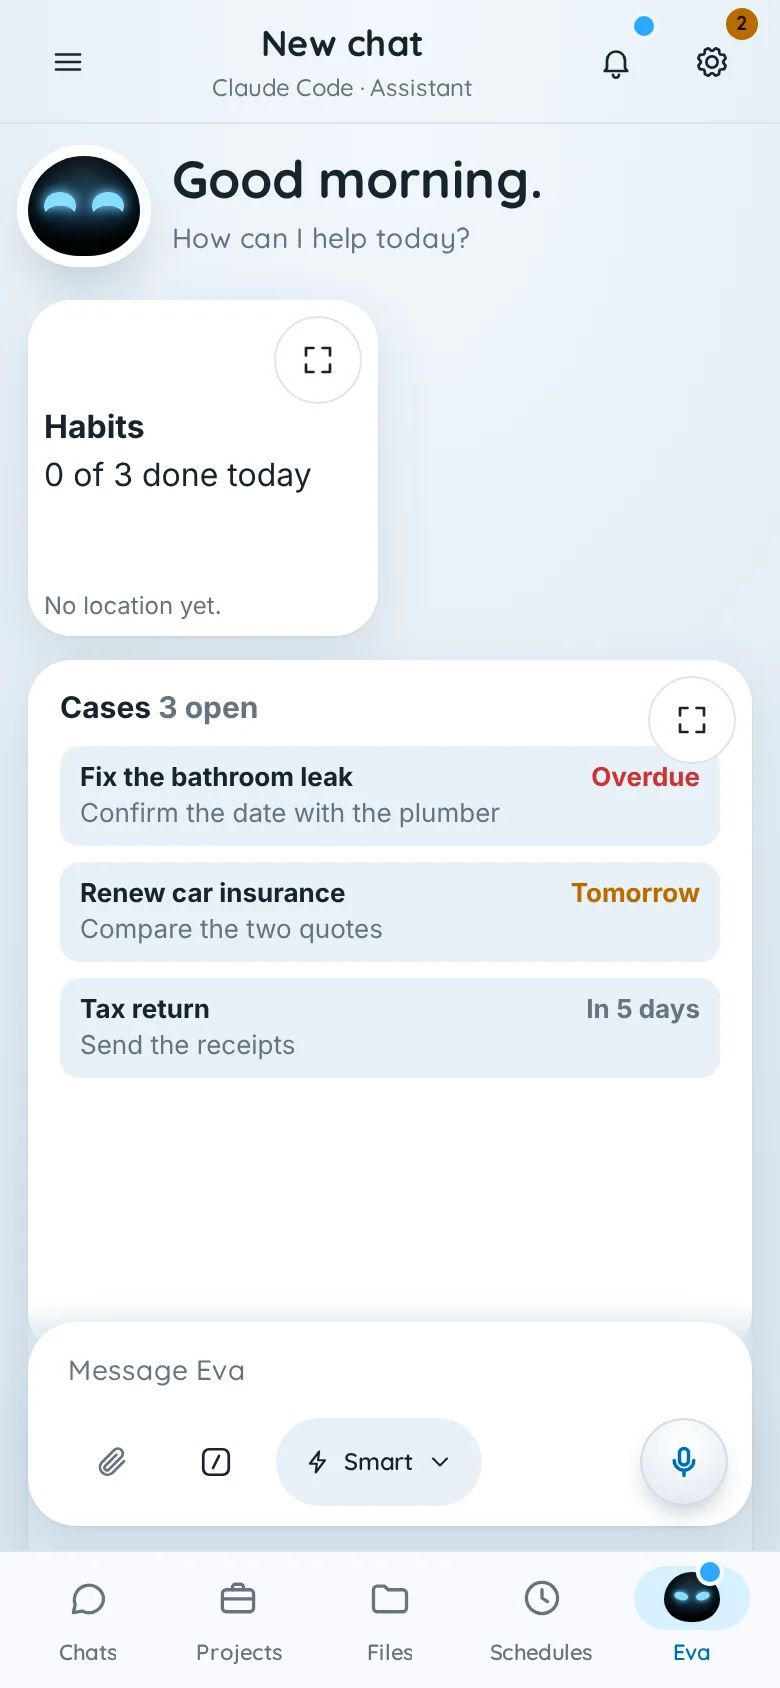
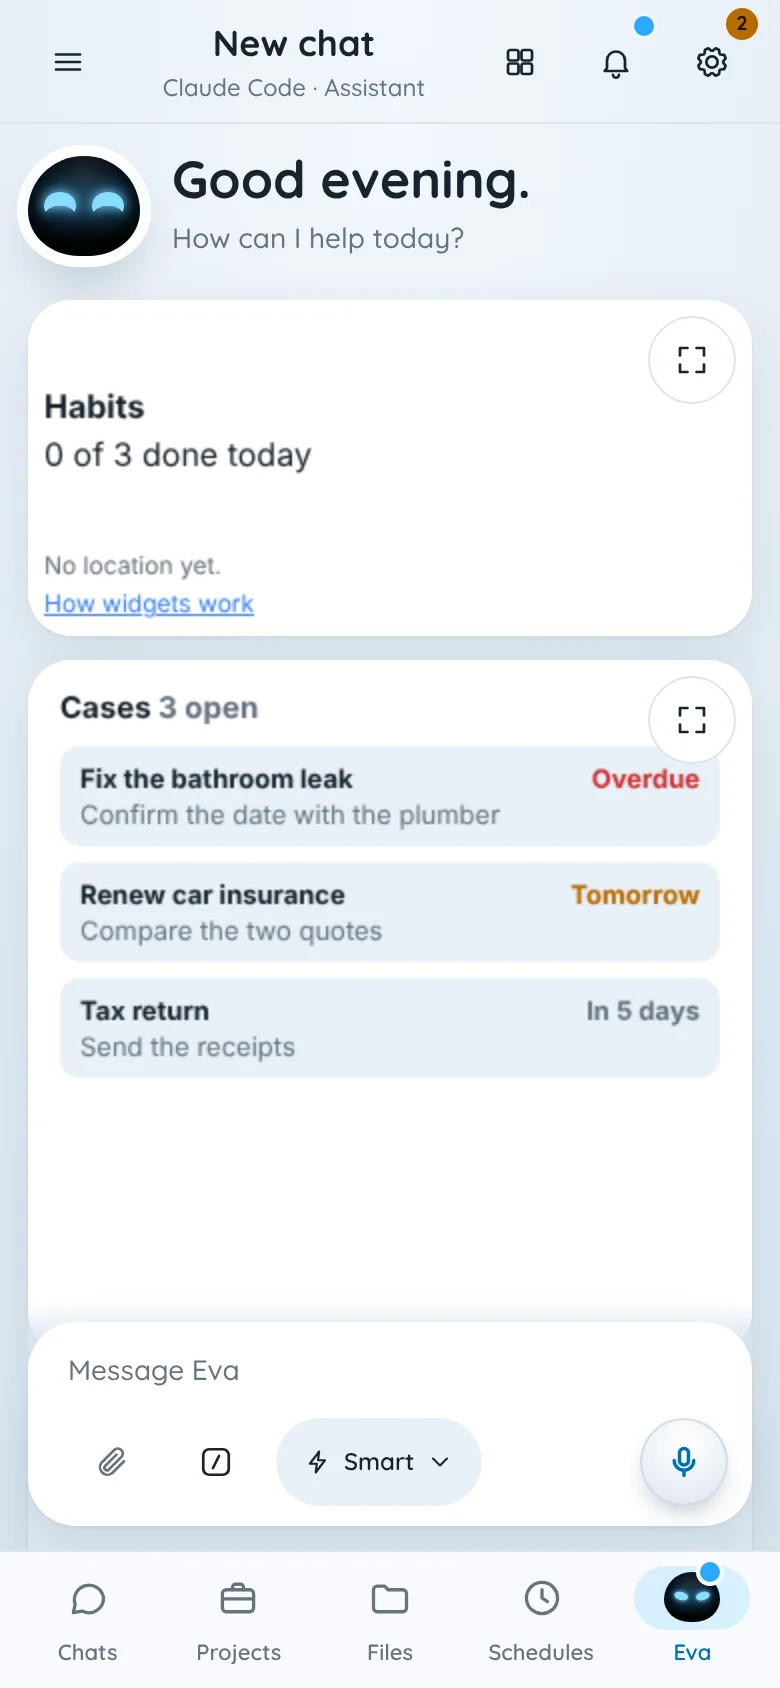
docs: describe the widget layout editor, and capture it
The contract, the guide and the design guide name the layout key, the
editor, the tiles button of the home page and the default placement.
The design guide gets a page with captures of the editor, and new
captures of the home page with its tiles button.

Refs #985

diff --git a/scripts/capture-design.ts b/scripts/capture-design.ts
@@ -298,6 +298,18 @@ const scenes: readonly Scene[] = [
   { name: "pets", show: (page) => openAddress(page, "#/pets", "Pets") },
   { name: "periods", show: (page) => openAddress(page, "#/periods", "Periods") },
   { name: "settings", show: (page) => openAddress(page, "#/settings", "Settings") },
+  {
+    name: "widget-layout",
+    // The layout editor of the home grid (#985), with Habits selected, so the free places show.
+    show: async (page) => {
+      await openAddress(page, "#/settings/personalize/widget-layout", "Personalize");
+      const editor = page.getByRole("region", { name: "Widget layout" });
+      await editor.getByRole("button", { name: /^Habits/ }).click();
+      await editor.locator(".layout-target").first().waitFor();
+      // The preview at the top of the screen, with the tools below it.
+      await editor.evaluate((element) => element.scrollIntoView({ block: "start" }));
+    },
+  },
   { name: "devices", show: (page) => openAddress(page, "#/settings/devices", "Devices") },
   {
     name: "problems",

diff --git a/docs/guide/reference.md b/docs/guide/reference.md
@@ -603,13 +603,22 @@ Each feature stays off until you set it up. `eva doctor` shows which tools are m
 - **Favorites.** Tap the star on a file or a folder in **Files** to make it a favorite. Your favorites show first on the Files page, so one tap opens them. Eva keeps them in `.eva/favorites.json` in the vault, so each computer shows the same ones.
 - **Copy a name or a path.** In **Files**, right-click a file or a folder in a column, or press and hold it on a phone. The menu has **Copy name**, **Copy path in the vault** and **Copy full path on this computer**. **Copy name** gives the real name on disk, with its extension, not the tidy name that the row shows. The full path is the vault folder of the computer that runs Eva, so it fits a terminal on that computer.
 - **Your location.** Share your live location with Eva's bot in Telegram, or open **Settings > Personalize > Your location** and allow a device to send its location while Eva is open. Eva keeps only the last location, as `lastLocation` in the header of `Life/About me.md`, so each computer sees it. The hub writes it at most once every 15 minutes, and only after a move of more than 50 m, or when the stored point is more than 6 hours old. So a day in one place makes only a few vault commits. Scripts such as a weather forecast use it. When your phone sent nothing in the last day, they use the home place of `Life/About me.md`.
-- **Widgets.** A widget is a small web page on Eva's home page. With a widget on, the home page is a day panel: a one-line greeting, then your widgets at the full width, in the order of the list. It shows no suggestions then. [docs/widgets.md](../widgets.md) tells how to make one. Open **Settings > Personalize > Widgets** to manage them.
+- **Widgets.** A widget is a small web page on Eva's home page. With a widget on, the home page is a day panel: a one-line greeting, then your widgets at the full width, in the places of the widget layout. It shows no suggestions then. [docs/widgets.md](../widgets.md) tells how to make one. Open **Settings > Personalize > Widgets** to manage them.
   - The list shows each widget project of yours, each widget that ships with Eva, and each widget that you add by the address of its GitHub repository. Each one starts off.
   - Eva ships four widgets. With all of them on, the day panel shows Calendar at the left, and Habits above Cases at the right. [**Calendar**](https://github.com/guplem/eva-widget-calendar) shows your Google Calendar for the next days, with the forecast of each day. It needs Google Calendar on in [Set up Google](#set-up-google). It sends your location to Open-Meteo, rounded to about one kilometre. [**Cases**](https://github.com/guplem/eva-widget-cases) shows your open cases from **Life > Cases**, the most urgent first, with the next step and its date. [**Habits**](https://github.com/guplem/eva-widget-habits) tracks your habits in a vault folder: mark a habit for today on the card, and see its history, streaks and strength in full screen. [**Weather**](https://github.com/guplem/eva-widget-weather) shows the forecast for your last location. It sends that location to Open-Meteo, rounded to about one kilometre. With no location yet, it says how to share one.
   - **Turn on** asks for the widget's inputs, such as a vault folder, and shows what it may do: the places it reads or writes, your location and the web hosts it calls, each with its reason. Approve all of it, or press **Cancel** to leave it off.
   - A widget reaches only what you approved on this computer. A change of the widget, or of `.eva/widgets.json` by an agent, gives it nothing until you approve it again.
-  - The list, the order and the inputs live in `.eva/widgets.json` in the vault. The approvals and a read-only copy of each widget stay on this computer. So another computer shows the same widgets, each with **Approve to show this widget**, until you approve it there.
+  - The list, the layout and the inputs live in `.eva/widgets.json` in the vault. The approvals and a read-only copy of each widget stay on this computer. So another computer shows the same widgets, each with **Approve to show this widget**, until you approve it there.
   - **Turn off** hides a widget and keeps its approval. **Remove** drops its approval and its copy. Your data in the vault stays.
+  - **Widget layout**, below the list, chooses where each widget shows and its size. The tiles button next to the bell of the home page opens it too.
+    - Pick **Computer** or **Phone**. Each has its own layout. A window narrower than 761 px uses the phone layout. A phone with no layout of its own follows the computer's order, with no gaps.
+    - The preview shows the home page at a small scale, with one box for each widget that is on. Select a box, then tap a free place to move it there, or another box to swap the two. A mouse can drag a box, and a finger can drag the selected box. The arrows, or the arrow keys, move the selected box one place.
+    - Pick a size for the selected widget: Small, Medium, Large, Tall or Extra large. Each shows its columns and rows. A widget that waits for approval stays small.
+    - An empty place stays empty: the home page keeps the gap. A widget that you turn on later goes after the others.
+    - **Arrangements** place every widget with one tap, such as **Big widget left**. **Reset to default** gives back the order of the list, with no gaps.
+    - Nothing changes until you press **Save layout**. Eva then writes the layout into the vault once. When you leave with changes that are not saved, Eva asks first.
+    - With no saved layout, each widget fills the first place where it fits, in the order of the list. On a phone, an Extra large widget then shows after the smaller ones.
+    - On a phone, a Small widget alone in its row always takes the whole row.
   - Each folder where a widget keeps data gets a `DATA_FORMAT.md`. Eva writes the whole file: it lists the files, the fields and the widget of each field. Do not edit it. Write your notes in the `AGENTS.md` or the `README.md` of the folder.
   - **Turn on** also shows the line that the widget adds to Eva's prompt. Each new chat with Eva gets it with your real folder. A project chat does not. So when you say "today I trained", Eva saves it where the training widget reads it.
   - Two widgets can share a folder. When one names a field with another type than the other, Eva warns you. Then turn the second widget on with read access only, or pick another folder.

diff --git a/docs/widgets.md b/docs/widgets.md
@@ -117,7 +117,7 @@ A widget talks to its host only through `fetch` to relative paths. The host deci
 - A data file is JSON or YAML.
 - Eva answers a refused request with a status code. Handle each one: `400` for a body that is not valid JSON or YAML, `403` for a write that the approval does not allow, `404` for a file or a token that is gone, `405` for another method, `409` for a file on disk that Eva cannot read, so she does not overwrite it, `413` for a write over 5 MB or a read over 50 MB, and `422` for data that does not fit the schema or that holds a secret.
 
-Eva gives the size in the address, as `?size=small`, `medium`, `large`, `tall`, `xlarge` or `full`.
+Eva gives the size in the address, as `?size=small`, `medium`, `large`, `tall`, `xlarge` or `full`. A new size from the layout loads the widget again with the new address.
 
 ### The calendar
 
@@ -160,7 +160,7 @@ An `eva-cases` input gives the widget the person's open cases. Eva reads them fr
 
 ## Sizes
 
-A widget has five sizes for a fixed grid, and a full-screen view, `full`. The manifest's `size` is the size of its card in the grid. Eva can change the sizes later. `tall` and `xlarge` come with contract 2.
+A widget has five sizes for a fixed grid, and a full-screen view, `full`. The manifest's `size` is the default size of its card in the grid. The person can give the card another of the five sizes, apart on a computer and on a phone, so a widget must work at each size. `tall` and `xlarge` come with contract 2.
 
 | Size     | On a computer (4 columns) | On a phone (2 columns)                                 |
 | -------- | ------------------------- | ------------------------------------------------------ |
@@ -172,9 +172,12 @@ A widget has five sizes for a fixed grid, and a full-screen view, `full`. The ma
 
 The grid is the day panel of Eva's home page:
 
-- The cards follow the order of the list in `.eva/widgets.json`. A card fills the first hole where it fits, so no order makes cards overlap.
+- The person places each card in **Settings > Personalize > Widget layout**, with a preview of the grid. The computer and the phone each have their own layout. A place can stay empty.
+- Each entry of `.eva/widgets.json` can keep its place and size in an optional `layout` key: `{ "computer": { "column": 1, "row": 1, "size": "xlarge" }, "phone": { "column": 1, "row": 4 } }`. `column` and `row` start at 1. Eva ignores a bad value.
+- A card with no saved place fills the first hole where it fits, in the order of the list, after the saved cards. So no order makes cards overlap. A phone with no saved place follows the order of the computer layout.
+- `placeWidgets` in `src/core/widgets/widget-layout.ts` places the cards of the home grid and of the preview.
 - On a computer, at least three rows share the height above the message box. Each row is at least 140 px high. More cards add rows, and the page scrolls.
-- On a phone, each row is 168 px high, and the page scrolls. An `xlarge` card shows after the smaller cards, so a long calendar does not push them out of view. Two `small` cards share a row. A `small` card with no partner, such as the last of an odd number, takes the full width.
+- On a phone, each row is 168 px high, and the page scrolls. With no saved place, an `xlarge` card shows after the smaller cards, so a long calendar does not push them out of view. Two `small` cards share a row. A `small` card with no partner in its row takes the full width.
 
 - The widget always fills the space that it gets, at every screen size. It has no empty border.
 - Keep the top right corner free of text and buttons: 56 px wide and 56 px high, at every size. Eva puts her full-screen button there, over the widget, and her close button in full screen.

diff --git a/docs/design/eve/README.md b/docs/design/eve/README.md
@@ -275,8 +275,9 @@ Each page has a computer and a phone capture, in light and dark. The light captu
 
 - This is the home page: a tap on the visor opens it from any page.
 - A bell at the top right opens the notification center. It shows the same count and dot as the visor. On a phone, a gear beside it opens Settings.
+- With a widget on, a tiles button before the bell opens the widget layout in Settings.
 - EVE greets with happy eyes instead of a blank page.
-- With a widget on, the page is the day panel. The 56 px visor, the greeting and its line take one row at the top left. The widgets fill the rest of the page above the message box, in sandboxed frames. A corner button opens one in full screen. The panel shows no suggestions. [docs/widgets.md](../../widgets.md#sizes) gives the place of each size on a computer and on a phone.
+- With a widget on, the page is the day panel. The 56 px visor, the greeting and its line take one row at the top left. The widgets fill the rest of the page above the message box, in sandboxed frames, at the places of the widget layout. A corner button opens one in full screen. The panel shows no suggestions. [docs/widgets.md](../../widgets.md#sizes) gives the place of each size on a computer and on a phone.
 - With no widget on, the large visor greets in the centre. Suggestions show what Eva does well: notes, calendar, projects and reminders. The calendar shows only when Google is set up.
 - With no engine or no vault, EVE sleeps instead. She names the missing step, with a button to it, and the message box locks. With a widget on, the step takes the row of the greeting, and the widgets stay below it.
 - The engine and the model show in the composer, and change there. The header shows the mode.
@@ -379,6 +380,16 @@ Cases, a case page, People, Inventory, Pets and Periods, on a computer and on a 
 - The setup is a ring with the steps left. The open step has the main button.
 - Optional steps have another icon and colour, so they do not look like errors.
 - Appearance has the colour picker, the theme and the density.
+
+### Widget layout
+
+![Computer](screenshots/widget-layout-computer-light.webp) ![Phone](screenshots/widget-layout-phone-light.webp)
+
+- Settings > Personalize > Widget layout places the widgets of the home page. Chips pick the computer or the phone layout.
+- The preview is the home grid at a small scale: four columns on a computer, two on a phone. Each widget that is on has a box with its name and size. `placeWidgets` places the preview and the home grid, so the two never differ.
+- A tap selects a box: it takes the soft accent fill and a 2 px accent border. Each free place where it fits shows a dashed accent cell. A tap on a cell moves the box. A tap on another box swaps the two. A drag shows a dashed outline where the box would land.
+- Below the preview, the arrows move the selected box, and chips pick its size. Each target is 44 px at least on a phone.
+- Arrangement chips place every widget with one tap. Save layout is the main button. Nothing changes on the home page before it.
 
 ### Devices
 
